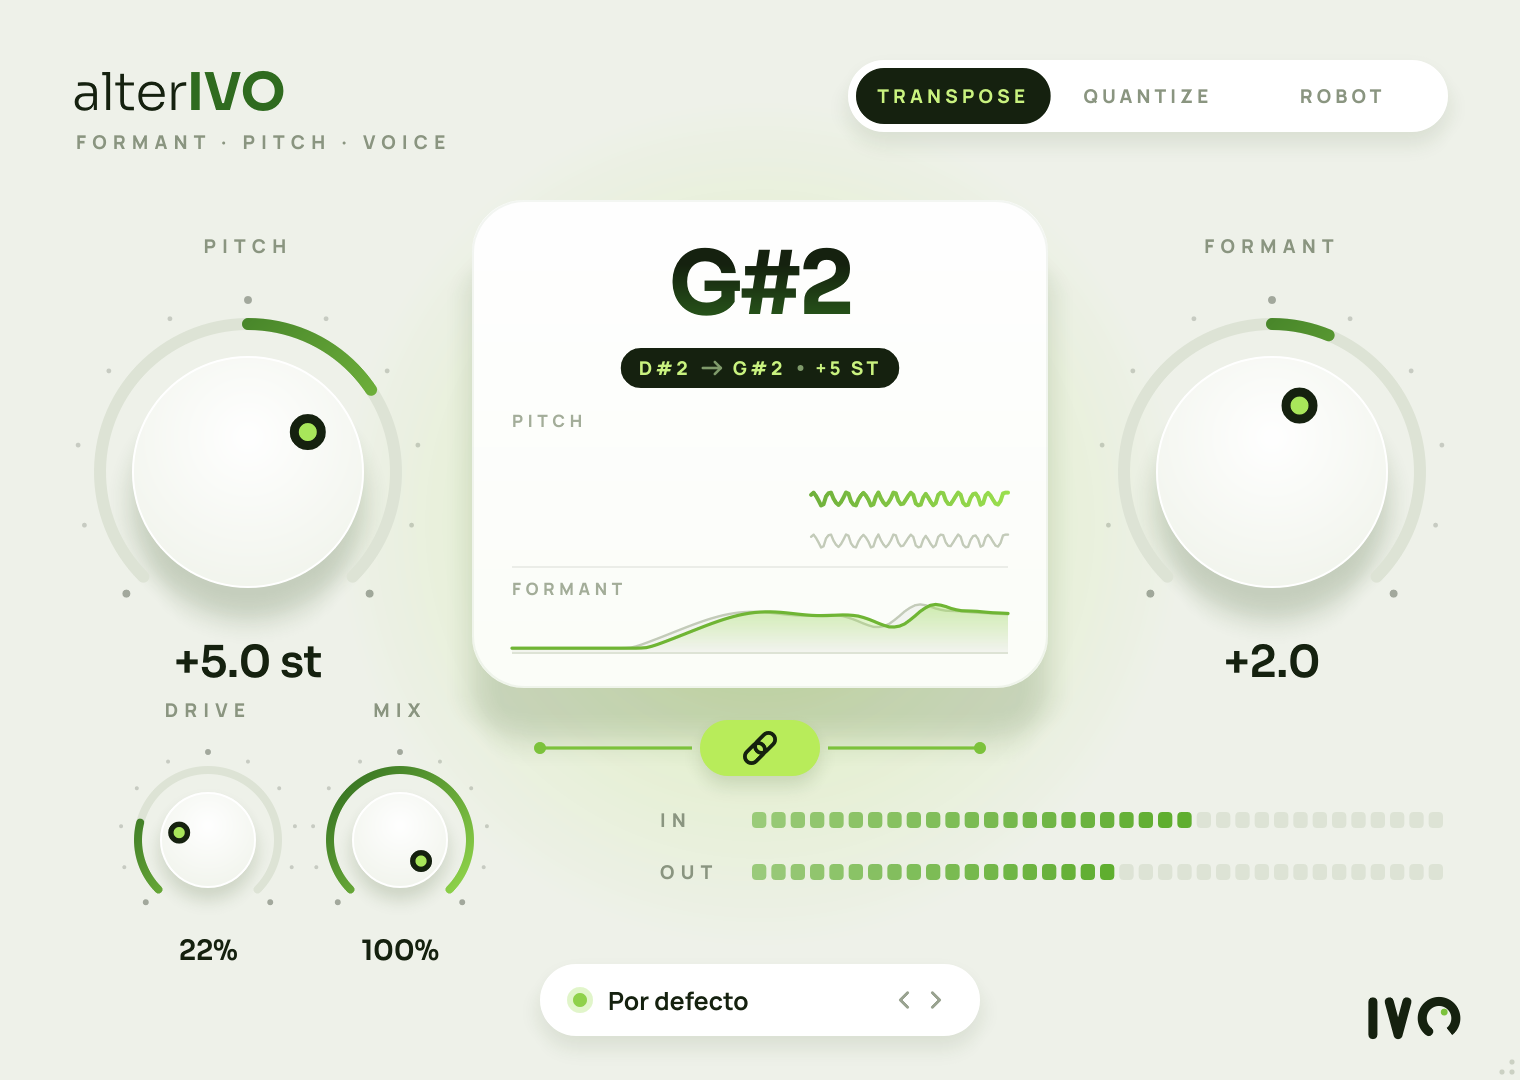
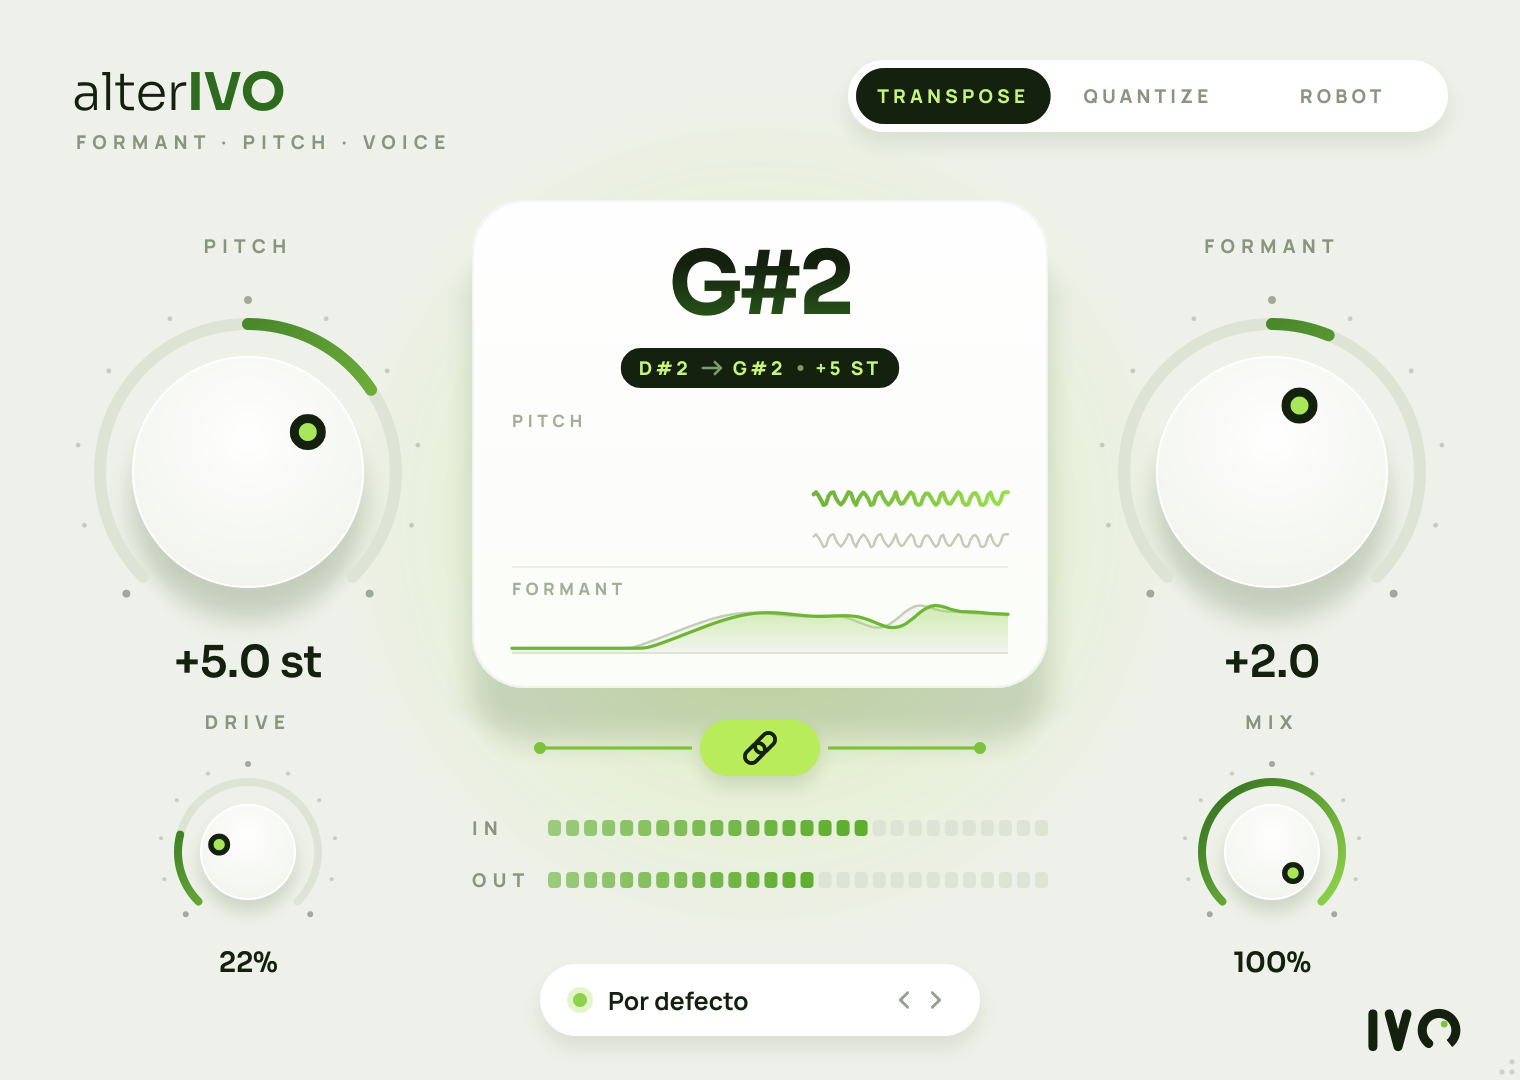
Fila inferior simétrica: Drive y Mix bajo los mandos grandes, medidores centrados
Claude-Session: https://claude.ai/code/session_019pGoiKBtdYvcjfagAEK9Vp

diff --git a/Source/PluginEditor.cpp b/Source/PluginEditor.cpp
@@ -40,15 +40,15 @@ constexpr float kEnd   = juce::MathConstants<float>::pi * 2.75f;
 constexpr int kW = AlterIvoEditor::kBaseW, kH = AlterIvoEditor::kBaseH;
 
 // Posiciones del diseño (760 x 540)
-const juce::Point<int> kPitchC   { 124, 236 }, kFormantC { 636, 236 }, kDriveC { 104, 420 }, kMixC { 200, 420 };
+const juce::Point<int> kPitchC   { 124, 236 }, kFormantC { 636, 236 }, kDriveC { 124, 426 }, kMixC { 636, 426 };
 constexpr int kBigBox = 180, kSmallBox = 96;
 constexpr float kBigR = 58.0f, kSmallR = 24.0f;
 
 const juce::Rectangle<int> kModes    { kW - 36 - 300, 30, 300, 36 };
 const juce::Rectangle<int> kCard     { 236, 100, 288, 244 };
 const juce::Rectangle<int> kLink     { 350, 360, 60, 28 };
-const juce::Rectangle<int> kInMeter  { 330, 400, 394, 20 };
-const juce::Rectangle<int> kOutMeter { 330, 426, 394, 20 };
+const juce::Rectangle<int> kInMeter  { 236, 404, 288, 20 };
+const juce::Rectangle<int> kOutMeter { 236, 430, 288, 20 };
 const juce::Rectangle<int> kPresets  { 270, 482, 220, 36 };
 
 juce::Rectangle<int> box (juce::Point<int> c, int size) { return { c.x - size / 2, c.y - size / 2, size, size }; }
@@ -444,9 +444,9 @@ void LevelMeter::paint (juce::Graphics& g)
     g.setFont (font (*fonts, Face::manropeX, 9.5f, 0.24f));
     g.drawText (label, r.withWidth (44.0f), juce::Justification::centredLeft, false);
 
-    constexpr int N = 36;
+    constexpr int N = 28;
     constexpr float lo = -48.0f;
-    const float x0 = 46.0f, w = (r.getWidth() - x0) / (float) N;
+    const float x0 = 38.0f, w = (r.getWidth() - x0 + 2.5f) / (float) N;
     const float cy = r.getCentreY();
 
     int lit = 0;
@@ -756,15 +756,15 @@ void AlterIvoView::paintBackground (juce::Graphics& g)
     g.setFont (font (*fonts, Face::manropeX, 9.5f, 0.24f));
     g.drawText ("PITCH",   centredRect (kPitchC.x, 116, 160, 14), juce::Justification::centred, false);
     g.drawText ("FORMANT", centredRect (kFormantC.x, 116, 160, 14), juce::Justification::centred, false);
-    g.drawText ("DRIVE",   centredRect (kDriveC.x, 348, 120, 14), juce::Justification::centred, false);
-    g.drawText ("MIX",     centredRect (kMixC.x, 348, 120, 14), juce::Justification::centred, false);
+    g.drawText ("DRIVE",   centredRect (kDriveC.x, kDriveC.y - 72, 120, 14), juce::Justification::centred, false);
+    g.drawText ("MIX",     centredRect (kMixC.x, kMixC.y - 72, 120, 14), juce::Justification::centred, false);
 
     // Firma IVO abajo a la derecha (las letras ocupan del 13.45 % al 86.55 % del ancho del SVG)
     if (logoMark != nullptr)
     {
         const float size = 46.0f;
         const float x = W - 36.0f - 0.8655f * size;
-        logoMark->drawWithin (g, juce::Rectangle<float> (x, 509.0f - size * 0.5f, size, size), juce::RectanglePlacement::centred, 1.0f);
+        logoMark->drawWithin (g, juce::Rectangle<float> (x, 515.0f - size * 0.5f, size, size), juce::RectanglePlacement::centred, 1.0f);
     }
 }
 
